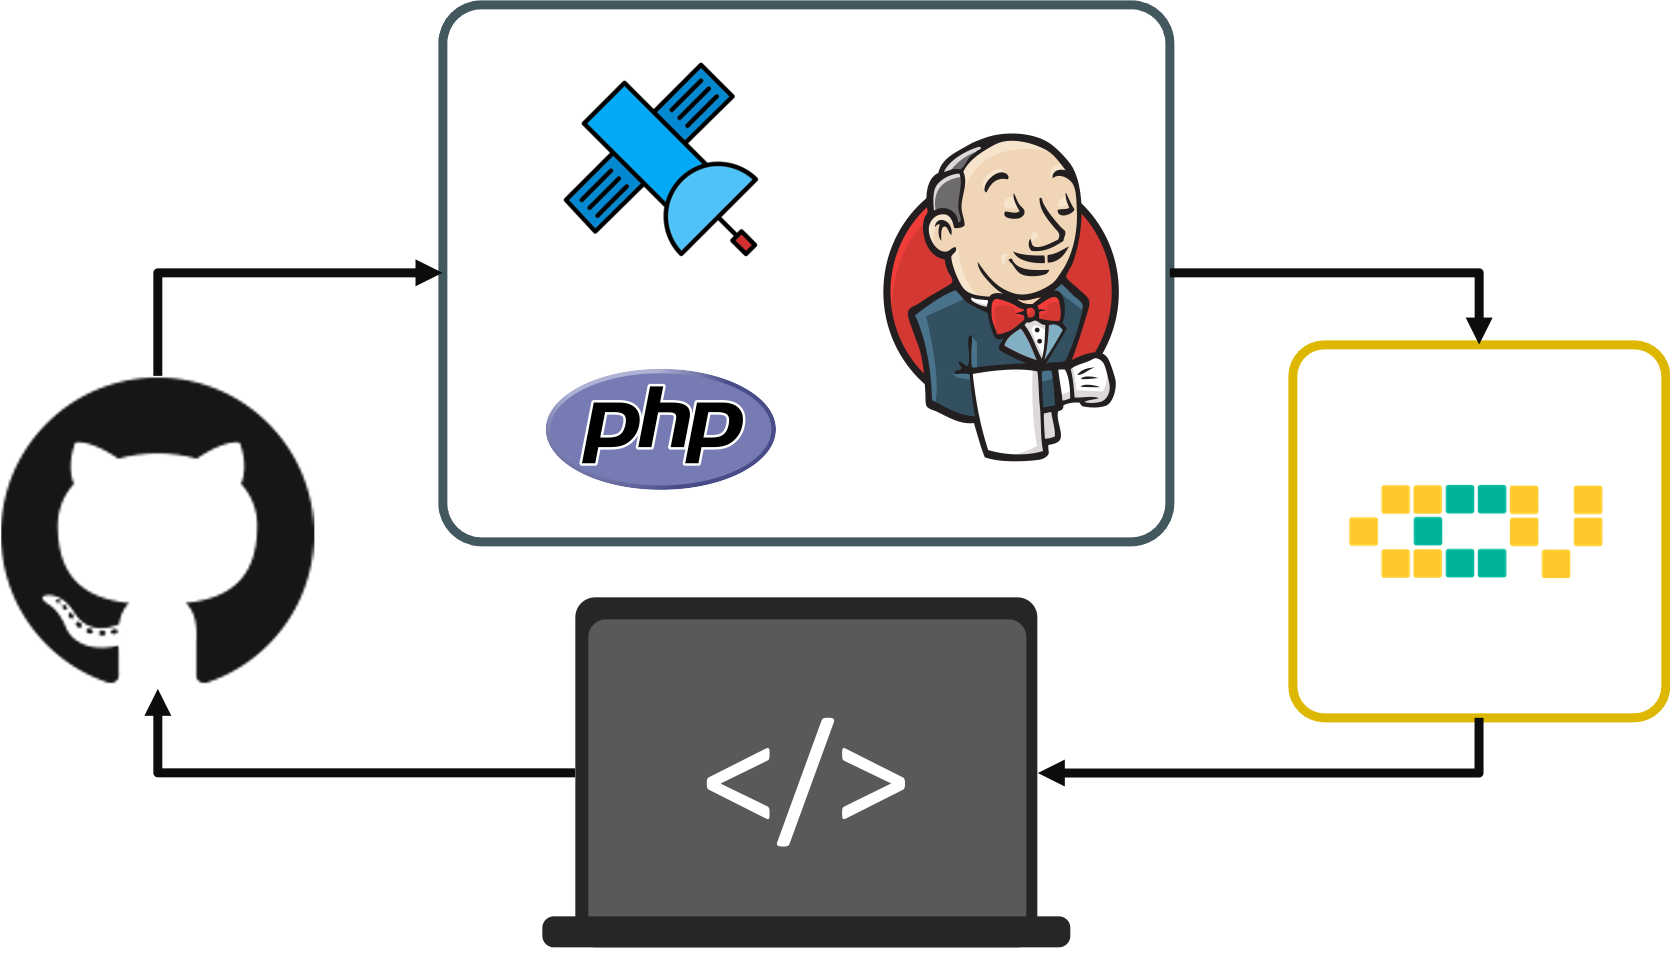
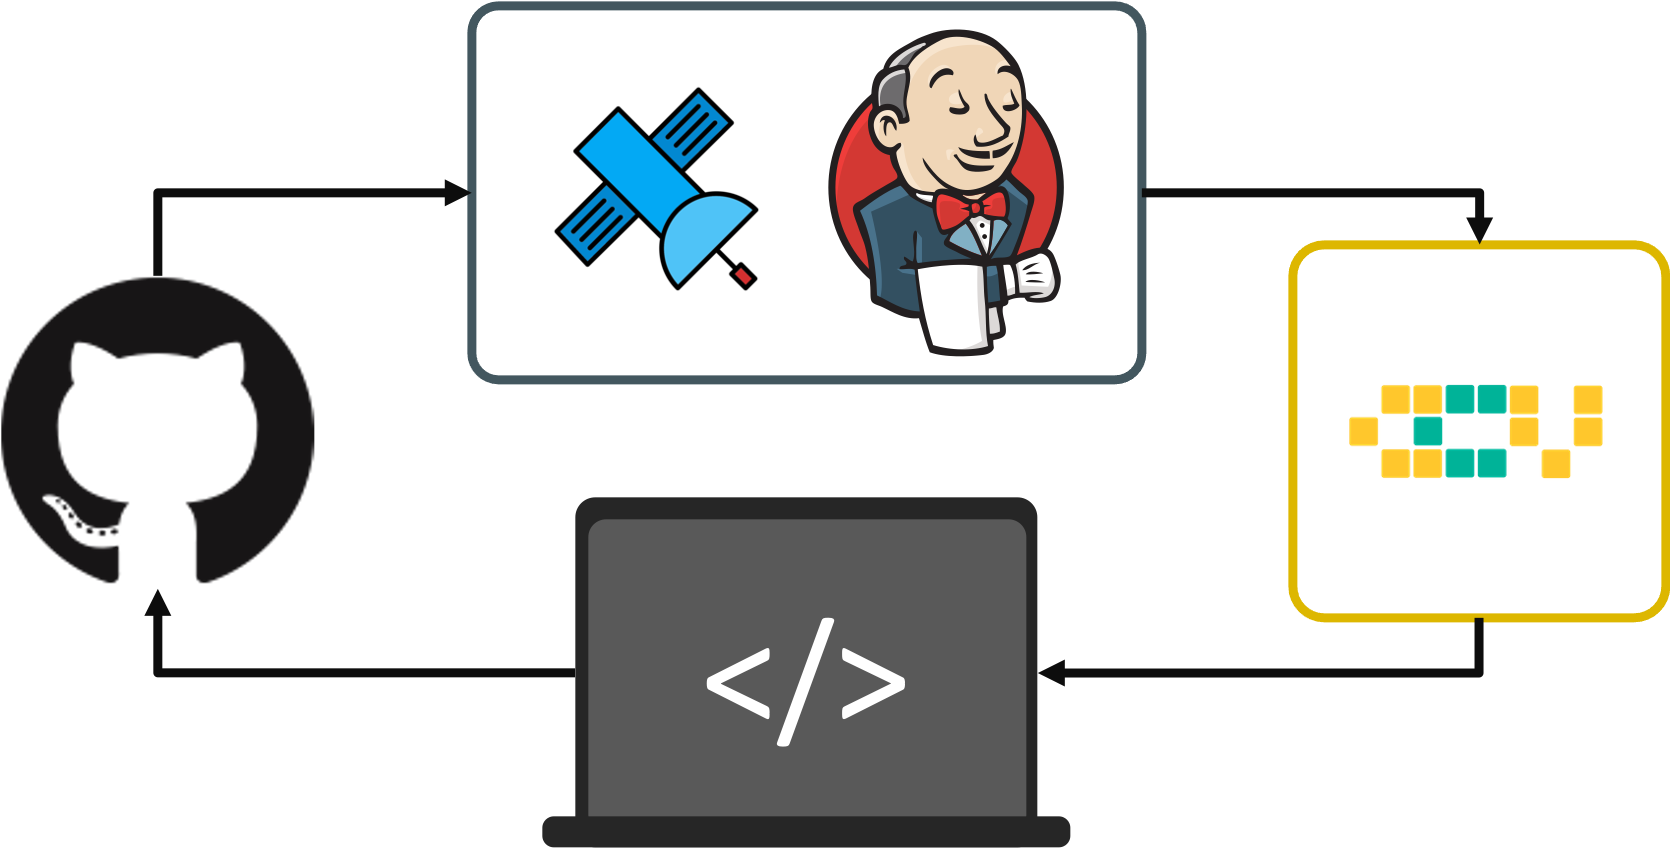
remove php server because it does not add any benefit

diff --git a/README.md b/README.md
@@ -63,13 +63,10 @@ For starting a local jenkins, configuration server, and webhookrealy agent, run
 ### Configuration as code
 The configuration as code plugin is preinstalled in this image. With this, it is possible to configure jobs on the jenkins instance. 
 
-#### Configuration server in docker compose
-A solution that allows to update configuration in a running jenkins instance is to server the configuration file via a server. In this setup, a php server serves the configuration directory in this repository. It can be simplified by providing this directory via volume mount.
-In the configuration as code setup, the URL to the initial configuration file needs to be configured via the environment variable `CASC_JENKINS_CONFIG`. Since the `ccmb-jenkins` container is sharing a network with the configuration server as part of the docker compose setup, the configuration server can be addressed via the docker compose name of the service. The URL can look like this:
+#### Configuration via volume mount
+A solution that allows to update configuration in a running jenkins instance is to mount the configuration directory in this repository via volume mount.
+In the configuration as code setup, the URL to the initial configuration file needs to be configured via the environment variable `CASC_JENKINS_CONFIG`. 
 ```dotenv
-CASC_JENKINS_CONFIG=http://configuration-server:9000/configuration-as-code.yaml
+CASC_JENKINS_CONFIG=/usr/local/configuration/configuration-as-code.yaml
 ```
 With the configuration directory mounted als volume to the configuration server, the content can be updated and applied via the GUI for configuration as code in a running jenkins instance.
-
-#### Configuration via volume mount
-Alternatively, you can mount the configuration file as volume to the `ccmb-jenkins` container. Extend the docker compose file section and add a volume mount. Redirect the `CASC_JENKINS_CONFIG` environment variable to target mount destination inside the jenkins container.
